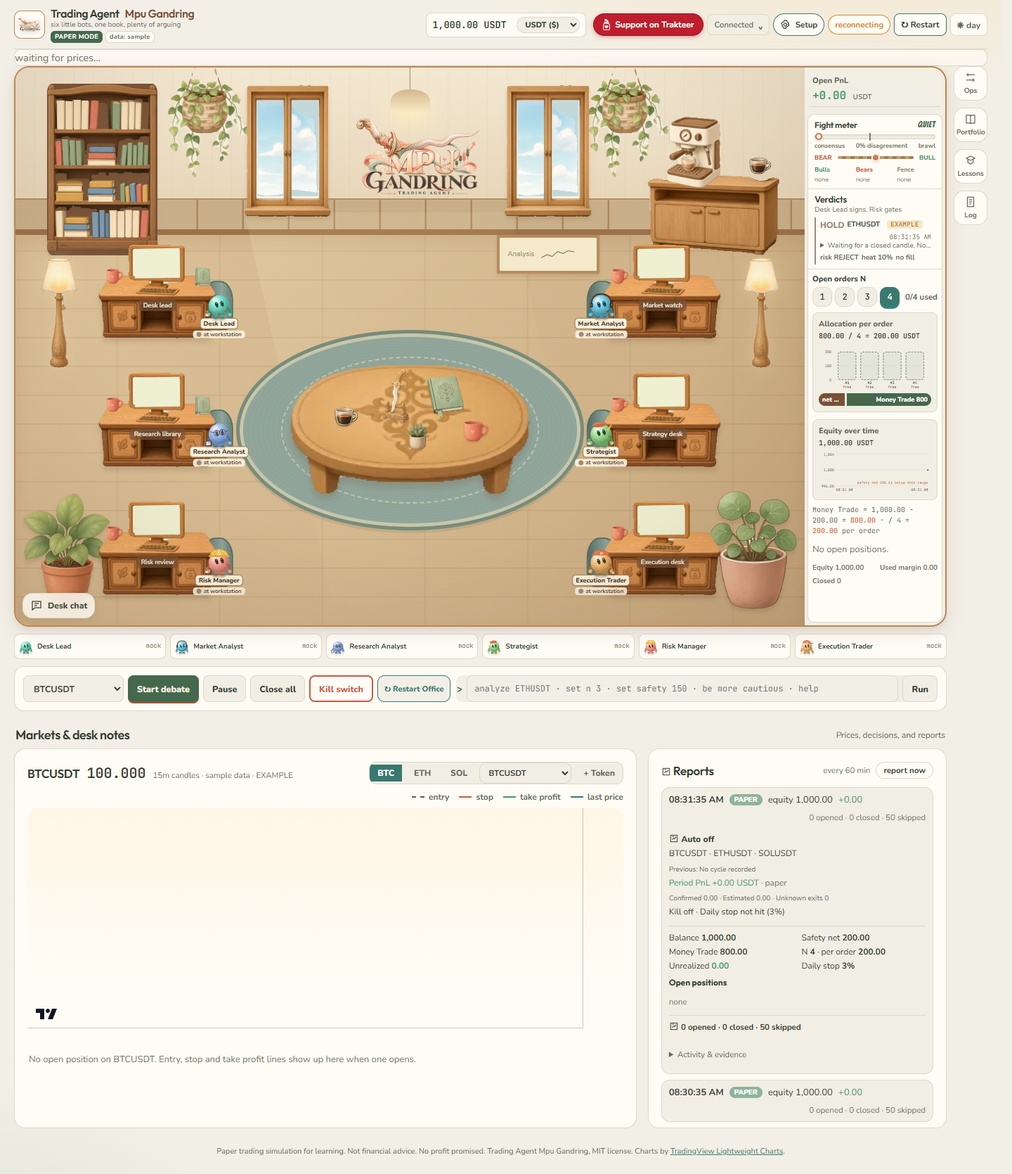
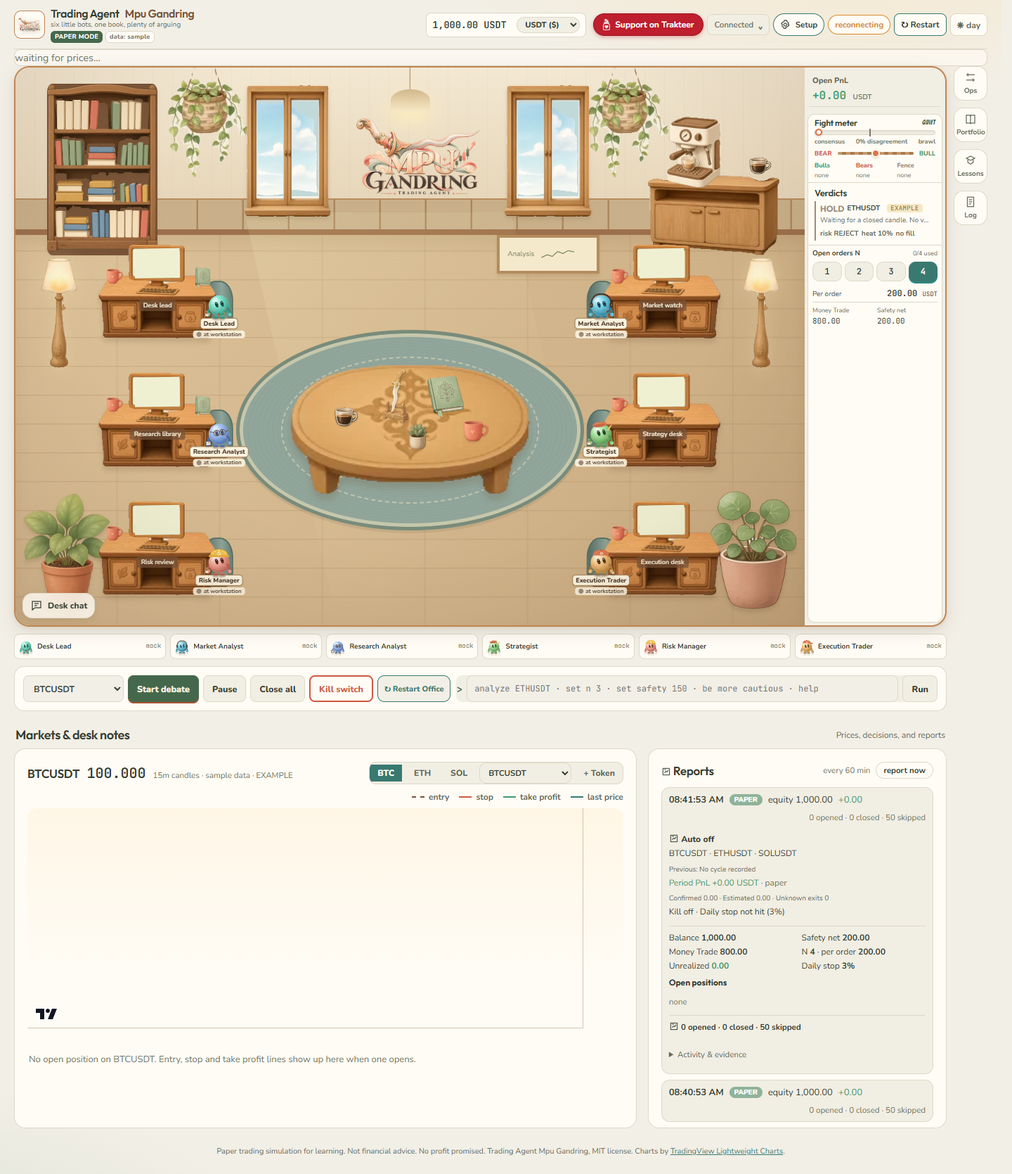
fix: compact map orders and remove indicator scrolling

Changed region(s): [[0.7812, 0.0935, 0.9375, 0.4985]]

diff --git a/web/src/styles/office-v2.css b/web/src/styles/office-v2.css
@@ -1,18 +1,25 @@
 .office-v2.office .office-world { background: #cfb18a; aspect-ratio: 1000 / 640; max-height: none; min-height: 390px; }
 .office-v2.office { container-type: inline-size; grid-template-columns: minmax(0, 1fr) 200px; grid-template-rows: auto minmax(0, 1fr); }
-.office-v2 .office-hud { align-self: stretch; align-content: start; min-height: 0; max-height: calc(max(390px, (100cqw - 200px) * .64) - 90px); overflow-y: auto; overscroll-behavior: contain; scrollbar-width: thin; scrollbar-color: var(--sage-deep) var(--panel); }
+.office-v2 .office-hud { align-self: stretch; align-content: start; min-height: 0; overflow: visible; }
 .office-v2 .office-orders { min-width: 0; padding: 9px; border-top: 1px solid var(--line); }
-.office-orders .n-picker { flex-wrap: wrap; margin: 0 0 8px; gap: 6px; }
-.office-orders .n-picker small { flex: 1 0 100%; color: var(--text); }
-.office-orders .n-picker button { width: 38px; height: 36px; }
-.office-orders .mini-chart { border-radius: 8px; padding: 8px; }
-.office-orders .mini-chart figcaption { flex-wrap: wrap; font-size: 11px; gap: 3px; }
-.office-orders .mini-chart figcaption b { font-size: 10px; }
-.office-orders .formula { font-size: 10px; line-height: 1.5; overflow-wrap: anywhere; }
-.office-orders .safety-strip { font-size: 9px; }
-.office-orders .safety-strip span { min-width: 0; padding-inline: 5px; }
-.office-orders .positions .pos { grid-template-columns: 1fr; gap: 4px; font-size: 11px; }
-.office-orders .foot { flex-wrap: wrap; gap: 5px 10px; font-size: 10px; }
+.office-orders .order-heading { display: flex; justify-content: space-between; gap: 6px; align-items: baseline; font-size: 10px; }
+.office-orders .order-heading span { color: var(--text-dim); white-space: nowrap; font-size: 9px; }
+.office-orders .n-picker { display: flex; flex-wrap: nowrap; margin: 5px 0; gap: 4px; }
+.office-orders .n-picker button { flex: 1; min-width: 0; width: auto; height: 28px; min-height: 28px; padding: 2px; font-size: 12px; }
+.office-orders .order-allocation { display: flex; justify-content: space-between; align-items: baseline; gap: 6px; padding-block: 4px; border-bottom: 1px solid var(--line); font-size: 10px; }
+.office-orders .order-allocation strong { font-family: var(--font-mono); font-size: 12px; }
+.office-orders .order-allocation small { font-size: 9px; font-weight: 400; }
+.office-orders .order-budget { display: grid; grid-template-columns: 1fr 1fr; gap: 6px; margin: 5px 0 0; }
+.office-orders .order-budget div { min-width: 0; }
+.office-orders .order-budget dt { color: var(--text-dim); font-size: 9px; }
+.office-orders .order-budget dd { margin: 2px 0 0; font-family: var(--font-mono); font-size: 11px; overflow-wrap: anywhere; }
+.office-orders .order-warning { margin: 4px 0 0; color: var(--short); font-size: 10px; }
+.office-v2 .office-hud .verdict-list { max-height: none; overflow: visible; }
+.office-v2 .office-hud .verdicts-compact .panel-head small { display: none; }
+.order-details { margin-top: 12px; }
+.order-details .pos { grid-template-columns: 1fr; gap: 4px; }
+.order-details .formula { overflow-wrap: anywhere; }
+.order-details .foot { flex-wrap: wrap; gap: 6px; }
 .dashboard .tool-flyout { overscroll-behavior: contain; }
 .studio-room { position: absolute; inset: 0; overflow: hidden; pointer-events: none; }
 .studio-wall { position: absolute; inset: 0 0 70%; background: repeating-linear-gradient(90deg, transparent 0 27px, #b7946c12 27px 28px), linear-gradient(#f3e8d2, #e4d2b4); border-bottom: 8px solid #9c704b; box-shadow: inset 0 -6px #c3986b; }
@@ -106,10 +113,21 @@
   .office-v2 .office-pnl { margin: 6px; padding: 5px; }
   .office-v2 .office-pnl strong { font-size: 16px; }
   .office-v2 .office-hud { margin: 4px; }
-  .office-v2 .office-orders { padding: 6px; }
+  .office-v2 .office-orders { padding: 4px 6px; }
   .office-v2 .office-orders .n-picker { gap: 4px; font-size: 10px; }
   .office-v2 .office-orders .n-picker button { width: 28px; height: 28px; min-height: 28px; padding: 2px; font-size: 12px; }
   .office-v2 .office-hud .verdicts-compact h2 { font-size: 13px; }
   .dashboard .desk-team .roster-item { flex: 1 1 0; height: 36px; min-height: 36px; padding: 4px 6px; grid-template-columns: 20px minmax(0, 1fr) auto; font-size: 10px; }
   .dashboard .desk-team .roster-item .bot { width: 20px; height: 24px; }
 }
+
+.office-v2 .verdicts-compact .v-top time { display: none; }
+.office-v2 .verdict-reason-trigger { display: block; width: 100%; min-width: 0; border: 0; padding: 2px 0; background: transparent; color: var(--text-dim); text-align: left; font: inherit; font-size: 10px; white-space: nowrap; overflow: hidden; text-overflow: ellipsis; cursor: pointer; }
+.office-verdict-popover { position: fixed; inset: 0; width: min(400px, calc(100vw - 32px)); height: fit-content; max-height: calc(100dvh - 40px); overflow: auto; margin: auto; padding: 18px; border: 1px solid var(--line); border-radius: 12px; background: var(--panel); color: var(--text); box-shadow: var(--shadow); font-size: 13px; }
+.office-verdict-popover::backdrop { background: #0004; }
+.office-verdict-popover p { line-height: 1.6; overflow-wrap: anywhere; }
+
+.office-v2 .office-hud .meter .panel-head { display: grid; grid-template-columns: auto minmax(0, 1fr); align-items: center; margin-bottom: 3px; }
+.office-v2 .office-hud .heat-label { font-size: 9px; line-height: 1.15; overflow-wrap: anywhere; }
+.office-v2 .office-hud .chip { font-size: 8px; line-height: 1.3; padding: 0 2px; }
+.office-v2 .office-hud .panel.meter { padding: 4px 9px; }

diff --git a/web/src/components/Panels.tsx b/web/src/components/Panels.tsx
@@ -1,4 +1,4 @@
-import { useCallback, useEffect, useRef, useState } from 'react';
+import { useCallback, useEffect, useId, useRef, useState } from 'react';
 import type { AgentId, DeskState, Verdict } from '../types';
 import { AGENT_ORDER } from '../types';
 import { PamorPattern } from './Keris';
@@ -533,18 +533,19 @@ export function Portfolio({ state, command }: { state: DeskState; command: (t: s
           )}
         </div>
       </div>
+      <OrderDetails state={state} command={command} />
     </section>
   );
 }
 
-export function OpenOrders({ state, command }: { state: DeskState; command: (text: string) => void }) {
+export function OpenOrders({ state }: { state: DeskState }) {
   const { t, lang } = useI18n();
   const p = state.paper;
   const [nBusy, setNBusy] = useState(false);
   const [nError, setNError] = useState<string | null>(null);
   return <section className="office-orders" aria-label={t('openOrdersN')}>
-      <div className="n-picker">
-        <small>{t('openOrdersN')}</small>
+      <div className="order-heading"><strong>{t('openOrdersN')}</strong><span>{p.positions.length}/{p.n} {t('usedSuffix')}</span></div>
+      <div className="n-picker" role="group" aria-label={t('openOrdersN')}>
         {[1, 2, 3, 4].map((n) => <button key={n} type="button" className={p.n === n ? 'on' : ''} disabled={nBusy} aria-pressed={p.n === n} onClick={() => void (async () => {
           if (nBusy || p.n === n) return;
           setNBusy(true); setNError(null);
@@ -553,9 +554,21 @@ export function OpenOrders({ state, command }: { state: DeskState; command: (tex
             if (!r?.ok) setNError(r?.error ?? (lang === 'id' ? 'Gagal menyimpan Max N.' : 'Could not save Max N.'));
           } finally { setNBusy(false); }
         })()}>{n}</button>)}
-        <span className="slots">{p.positions.length}/{p.n} {t('usedSuffix')}</span>
       </div>
       {nError && <p className="wallet-msg bad" role="status">{nError}</p>}
+      <div className="order-allocation"><span>{t('perOrder')}</span><strong>{fmt(p.perOrder)} <small>USDT</small></strong></div>
+      <dl className="order-budget">
+        <div><dt>{t('moneyTrade')}</dt><dd>{fmt(p.moneyTrade)}</dd></div>
+        <div><dt>{t('safetyNet')}</dt><dd>{fmt(p.safetyNet)}</dd></div>
+      </dl>
+      {!p.canOpen && <p className="order-warning">{t('atSafetyNet')}</p>}
+  </section>;
+}
+
+function OrderDetails({ state, command }: { state: DeskState; command: (text: string) => void }) {
+  const { t } = useI18n();
+  const p = state.paper;
+  return <div className="order-details">
       <div className="mini-charts"><AllocationBars state={state} /><EquityChart state={state} /></div>
       <p className="formula">{t('moneyTrade')} = {fmt(p.balance)} - {fmt(p.safetyNet)} = <b>{fmt(p.moneyTrade)}</b> · / {p.n} = <b>{fmt(p.perOrder)}</b> {t('perOrder').toLowerCase()}{!p.canOpen && <em> · {t('atSafetyNet')}</em>}</p>
       <div className="positions">
@@ -572,26 +585,33 @@ export function OpenOrders({ state, command }: { state: DeskState; command: (tex
         ))}
       </div>
       <div className="foot"><span>{t('equityLabel')} {fmt(p.equity)}</span><span>{t('usedMarginLabel')} {fmt(p.usedMargin)}</span><span>{t('closedLabel')} {p.closed.length}</span></div>
-  </section>;
+  </div>;
 }
 
 const ACTION_LABEL: Record<Verdict['action'], string> = { OPEN_LONG: 'OPEN LONG', OPEN_SHORT: 'OPEN SHORT', CLOSE: 'CLOSE', HOLD: 'HOLD' };
 export function Verdicts({ state, compact = false }: { state: DeskState; compact?: boolean }) {
   const { t } = useI18n();
+  const detailId = useId();
   return (
     <section className={`panel verdicts${compact ? ' verdicts-compact' : ''}`}>
       <div className="panel-head"><h2>{t('verdictsTitle')}</h2><small className="muted">{t('verdictsSub')}</small></div>
       {state.verdicts.length === 0 && <p className="muted">{t('noVerdictYet')}</p>}
       <div className="verdict-list">
         {state.verdicts.slice(0, compact ? 1 : 6).map((v) => (
-          <article key={v.id} className={`verdict a-${v.action}`}>
+          <article key={v.id} className={`verdict a-${v.action}`} title={time(v.at)}>
             <div className="v-top">
               <span className="v-action">{ACTION_LABEL[v.action]}</span>
               <b>{v.symbol}</b>
               {v.example && <em className="tag-example">EXAMPLE</em>}
               <time>{time(v.at)}</time>
             </div>
-            {compact ? <details><summary>{v.reason.slice(0, 82)}{v.reason.length > 82 ? '…' : ''}</summary><p>{v.reason}</p></details> : <p>{v.reason}</p>}
+            {compact ? <>
+              <button className="verdict-reason-trigger" type="button" popoverTarget={detailId}>{v.reason}</button>
+              <div id={detailId} popover="auto" className="office-verdict-popover" role="dialog" aria-label={t('verdictsTitle')}>
+                <strong>{ACTION_LABEL[v.action]} · {v.symbol}</strong><p>{v.reason}</p>
+                <button type="button" popoverTarget={detailId} popoverTargetAction="hide">{t('closeBtn')}</button>
+              </div>
+            </> : <p>{v.reason}</p>}
             <div className="v-meta">
               <span>risk {v.riskDecision}</span>
               <span>heat {Math.round(v.disagreement * 100)}%</span>

diff --git a/scripts/verify-office-ui.ts b/scripts/verify-office-ui.ts
@@ -70,6 +70,8 @@ try {
   assert.equal(await page.getByRole('heading', { name: 'Around the office', exact: true }).count(), 0);
   assert.equal(await page.locator('.office-hud .office-orders .n-picker').count(), 1);
   assert.equal(await page.locator('.portfolio .n-picker').count(), 0);
+  assert.equal(await page.locator('.office-orders .mini-chart, .office-orders .formula, .office-orders .positions').count(), 0);
+  assert.equal(await page.locator('.portfolio .order-details .mini-chart').count(), 2);
   assert.equal(await page.locator('.studio-sign img[src="/mpu-gandring-logo.webp"]').count(), 1);
   assert.equal(await page.locator('.studio-meeting-label').count(), 0);
   assert.equal(await page.locator('.coffee-machine, .meeting-book, .meeting-plant').count(), 3);
@@ -83,6 +85,12 @@ try {
       const pnl = document.querySelector('.office-pnl')!.getBoundingClientRect();
       const overlaps = (a: DOMRect, b: DOMRect) => a.left < b.right - 1 && a.right > b.left + 1 && a.top < b.bottom - 1 && a.bottom > b.top + 1;
       const errors: string[] = [];
+      for (const panel of document.querySelectorAll<HTMLElement>('.office-hud, .office-hud .verdict-list, .office-orders')) {
+        if (panel.scrollHeight > panel.clientHeight + 1) errors.push(`Map indicator content overflows vertically: ${panel.className} ${panel.scrollHeight}/${panel.clientHeight}`);
+        if (panel.scrollWidth > panel.clientWidth + 1) errors.push('Map indicator content overflows horizontally');
+        if (['auto', 'scroll'].includes(getComputedStyle(panel).overflowY)) errors.push('Map indicators still scroll');
+      }
+      if (innerWidth > 768 && innerHeight >= 600 && hud.bottom > world.bottom + 1) errors.push('Map indicators extend below the room');
       const table = document.querySelector('.studio-meeting')!.getBoundingClientRect();
       if (Math.abs(table.x + table.width / 2 - (world.x + world.width / 2)) > 1 || Math.abs(table.y + table.height / 2 - (world.y + world.height * .65)) > 1) errors.push('Table is not centered on the floor');
       const decor = [...document.querySelectorAll('.studio-table-inlay, .meeting-cup, .meeting-book, .meeting-plant')];
@@ -134,6 +142,13 @@ try {
     await page.screenshot({ path: path.join(output, `office-fit-${viewport.width}.png`) });
   }
   await page.setViewportSize({ width: 1440, height: 1100 });
+  await page.locator('.verdict-reason-trigger').click();
+  assert(await page.locator('.office-verdict-popover:popover-open').isVisible());
+  await assertOfficeSpace();
+  await page.locator('.office-verdict-popover button').click();
+  const nRequest = page.waitForRequest((request) => new URL(request.url()).pathname === '/api/ops/auto' && request.method() === 'POST');
+  await page.locator('.office-orders .n-picker button').filter({ hasText: /^2$/ }).click();
+  assert.deepEqual((await nRequest).postDataJSON(), { n: 2 });
   await page.locator('#tool-ops').click();
   await page.locator('.tool-flyout').hover();
   await page.waitForFunction(() => document.documentElement.style.overflow === 'hidden');
@@ -187,7 +202,8 @@ try {
   assert(!/LIVE|Exchange/.test(await page.locator('.office-pnl').innerText()), 'Map PnL omits mode and exchange source labels.');
   const hot = structuredClone(snapshot);
   hot.paper.unrealized = -7.5;
-  hot.debate = { id: 'test-hot', symbol: 'ETHUSDT', phase: 'round 1', round: 1, disagreement: 0.9, weighted: 0, camps: { bull: ['market'], bear: ['research'], neutral: [] } };
+  hot.paper.positions = Array.from({ length: 4 }, (_, i) => ({ id: `position-${i}`, symbol: ['BTCUSDT', 'ETHUSDT', 'SOLUSDT', 'XRPUSDT'][i], side: 'LONG' as const, qty: 1, entry: 100, stop: 95, tp: 110, margin: 200, leverage: 1, openedAt: Date.now(), mark: 101, unrealizedPnl: 1 }));
+  hot.debate = { id: 'test-hot', symbol: 'ETHUSDT', phase: 'round 1', round: 1, disagreement: 0.9, weighted: 0, camps: { bull: ['market', 'strategist'], bear: ['research', 'risk'], neutral: ['lead', 'execution'] } };
   hot.agents.market.stance = 'LONG'; hot.agents.research.stance = 'SHORT';
   socket!.send(JSON.stringify({ type: 'state', payload: hot }));
   socket!.send(JSON.stringify({ type: 'speech', payload: { agent: 'risk', at: Date.now(), text: 'Long debate text. '.repeat(30), done: true, example: true } }));
@@ -204,6 +220,12 @@ try {
   await page.locator('.office').screenshot({ path: path.join(output, 'office-hot-debate.png') });
   await page.emulateMedia({ reducedMotion: 'reduce' });
   await page.waitForSelector('.brawl-zone', { state: 'detached' });
+  await page.setViewportSize({ width: 1024, height: 600 });
+  await page.screenshot({ path: path.join(output, 'office-busy-1024.png') });
+  await assertOfficeSpace();
+  await page.locator('#tool-book').click();
+  assert.equal(await page.locator('.portfolio .order-details .pos').count(), 4);
+  await page.getByRole('button', { name: 'Close tool panel' }).click();
   for (const viewport of [{ width: 375, height: 812 }, { width: 812, height: 375 }]) {
     await page.setViewportSize(viewport);
     await page.emulateMedia({ reducedMotion: 'reduce' });

diff --git a/tests/i18n.test.ts b/tests/i18n.test.ts
@@ -43,22 +43,22 @@ describe('Dual language i18n parity and updater adapter', () => {
   });
 
   it('compares dotted version strings and checks update status at current release version', async () => {
-    expect(APP_VERSION).toBe('0.0.0.3.12');
+    expect(APP_VERSION).toBe('0.0.0.3.13');
     expect(compareVersions('0.0.0.2.6', '0.0.0.2.6')).toBe(0);
     expect(compareVersions('0.0.0.2.6', '0.0.0.2.5')).toBe(1);
     expect(compareVersions('0.0.0.3.3', '0.0.0.2.6')).toBe(1);
     expect(compareVersions('0.0.0.1.9', '0.0.0.2.6')).toBe(-1);
 
     const fakeNewerFetch = async () =>
-      new Response(JSON.stringify({ appVersion: '0.0.0.3.13', changelog: ['New feature'] }), { status: 200 });
+      new Response(JSON.stringify({ appVersion: '0.0.0.3.14', changelog: ['New feature'] }), { status: 200 });
     const st = await checkUpdate(fakeNewerFetch as unknown as typeof fetch);
     expect(st.ok).toBe(true);
-    expect(st.currentVersion).toBe('0.0.0.3.12');
-    expect(st.latestVersion).toBe('0.0.0.3.13');
+    expect(st.currentVersion).toBe('0.0.0.3.13');
+    expect(st.latestVersion).toBe('0.0.0.3.14');
     expect(st.updateAvailable).toBe(true);
 
     const applied = applyUpdate(process.cwd(), () => ({ status: 0, stdout: 'Already up to date.\\n', stderr: '' }));
     expect(applied.ok).toBe(true);
-    expect(applied.currentVersion).toBe('0.0.0.3.12');
+    expect(applied.currentVersion).toBe('0.0.0.3.13');
   });
 });

diff --git a/web/src/App.tsx b/web/src/App.tsx
@@ -136,7 +136,7 @@ function AppInner() {
           <Office sceneEvents={sceneEvents} state={state} speech={speech} fights={fights} reactions={reactions} disagreement={dis} selected={selected} spark={spark} onSelect={setSelected}>
             <FightMeter state={state} meter={meter} fighting={fights.length > 0} />
             <Verdicts state={state} compact />
-            <OpenOrders state={state} command={(cmd) => void command(cmd)} />
+            <OpenOrders state={state} />
           </Office>
           <section className="desk-team" id="desk-team" aria-label={id ? 'Tim agen' : 'Agent team'}><Roster state={state} onSelect={setSelected} /></section>
           <CommandBar state={state} command={(cmd) => command(cmd)} />

diff --git a/server/updater.ts b/server/updater.ts
@@ -2,7 +2,7 @@ import { spawnSync } from 'node:child_process';
 import { readFileSync } from 'node:fs';
 import path from 'node:path';
 
-export const APP_VERSION = '0.0.0.3.12';
+export const APP_VERSION = '0.0.0.3.13';
 export const REPO_RAW_PKG_URL = 'https://raw.githubusercontent.com/aabrur/trading-agent-mpu-gandring/main/package.json';
 export const REPO_URL = 'https://github.com/aabrur/trading-agent-mpu-gandring';
 

diff --git a/README.md b/README.md
@@ -14,17 +14,17 @@ You watch all of it live in a little virtual office in your browser, and you can
 
 Screenshots use isolated PAPER/mock fixtures and simulated data. They demonstrate the interface, not exchange execution or trading results.
 
-## Illustrated office (v0.0.0.3.12)
+## Illustrated office (v0.0.0.3.13)
 
 The office uses supplied wood furniture, a shared carved discussion table, a stocked library, sky windows, hanging plants, lamps and a coffee corner. Six animated characters retain their own workstation, role accessories, activity, debate and chat controls. Day and night themes extend across the room, map panels, agent roster, markets and reports.
 
-The office opens directly below the ticker, without a workspace hero or account-summary section. The six-agent roster stays in one compact, equal-height row, with horizontal scrolling on narrow screens. Open-order controls, allocation, equity history and positions sit in the map rail alongside Open PnL, the fight meter and verdicts. The rail scrolls independently on desktop. Portfolio retains balance, safety-net and venue-account settings.
+The office opens directly below the ticker, without a workspace hero or account-summary section. The six-agent roster stays in one compact, equal-height row, with horizontal scrolling on narrow screens. Compact open-order controls sit alongside Open PnL, the fight meter and verdicts without a scrolling rail. Portfolio contains the full allocation and equity charts, position controls, balance, safety-net and venue-account settings.
 
-On desktop viewports at least 600px tall, the complete office and all six agent buttons fit within the viewport while preserving workspace width. The compact 200px HUD scrolls within the office. The header, scene characters and agent row stay small so the room retains most of the screen; the office heading has been removed. The discussion table is centered on the usable floor, with six workstations aligned in two balanced columns. Four bookshelf levels use the supplied assembled book groups, and tabletop cups, book, plant and keris each have separate space. The wall displays only the project logo. An espresso machine sits on the coffee counter, and the discussion table carries coffee, a book, a plant and the supplied ornate keris (`026_curved-blade_ornate-dagger`) mounted upright in its matching wooden display stand. Tool panels freeze background-page scrolling while the pointer is inside, and release it on pointer exit or close. Map PnL shows the label and USDT value without mode/source text; provenance remains accessible in its description. Existing trading commands and guards keep their behavior.
+On desktop viewports at least 600px tall, the complete office and all six agent buttons fit within the viewport while preserving workspace width. The compact 200px HUD fits its indicators without internal scrolling. Open orders shows N, used slots, per-order allocation, Money Trade and the safety net; full charts, formulas and position controls are available in Portfolio. Full verdict reasons open in a separate popover. The header, scene characters and agent row stay small so the room retains most of the screen; the office heading has been removed. The discussion table is centered on the usable floor, with six workstations aligned in two balanced columns. Four bookshelf levels use the supplied assembled book groups, and tabletop cups, book, plant and keris each have separate space. The wall displays only the project logo. An espresso machine sits on the coffee counter, and the discussion table carries coffee, a book, a plant and the supplied ornate keris (`026_curved-blade_ornate-dagger`) mounted upright in its matching wooden display stand. Tool panels freeze background-page scrolling while the pointer is inside, and release it on pointer exit or close. Map PnL shows the label and USDT value without mode/source text; provenance remains accessible in its description. Existing trading commands and guards keep their behavior.
 
 Runtime artwork lives in `web/public/office-assets/`: 28 optimized WebP images, about 355 KiB total, with original filenames and archive provenance in `manifest.json`. The supplied `web/public/mpu-gandring-assets/` authoring library stays local and is ignored by Git. Production builds copy only runtime artwork and the two branding images, so clones do not need the original library. Replaced inline room artwork and furniture CSS have been removed.
 
-Validation: typecheck, production build and offline UI checks pass, including desktop, 375px phone, 812px landscape, night mode, loaded artwork, wallet sessions, discussion, compact roster, panel scroll containment and reduced motion. The full suite remains at its pre-existing baseline of **358 passing / 15 failing tests** in trading-default and risk-related tests. See [the verification record](docs/qa/2026-10-21-office-redesign.md). This release does not resolve those failures.
+Validation: typecheck, production build and offline UI checks pass, including desktop, 375px phone, 812px landscape, night mode, loaded artwork, wallet sessions, discussion, compact roster, panel scroll containment and reduced motion. The last full-suite run reported **369 passing / 15 failing tests** in trading-default and risk-related tests. See [the verification record](docs/qa/2026-10-21-office-redesign.md). This release does not resolve those failures.
 
 > **Risk warning. Paper trading by default. Not financial advice. No profit promised.** This is an educational project about multi-agent decision making. If you choose TESTNET or LIVE in setup, the agents trade **on their own** in full auto with no approval step: they open, close, size and set stops without asking you. In LIVE that is real money and you can lose it, quickly. Automatic guards including the no-withdraw key check, stop on every order, daily loss stop, safety net, max N and kill switch limit damage; they do not prevent losses. Read [docs/live-trading.md](docs/live-trading.md) first.
 
@@ -80,14 +80,14 @@ No model API keys needed: six Grok Bot agents are the employees and the brains, 
 - **A cozy office with brutal cartoon smoke-cloud fights and spectator reactions.** Wood floors, a woven rug, sky windows, a coffee corner and six round little bots with mitten hands. Each role has its own color and prop: tie, keris pin and journal papers for the Lead, headset for Market, glasses and newspaper for Research, beret and pencil for the Strategist, hard hat for Risk and cap and stopwatch for Execution. When disagreement crosses the threshold, agents dive into a cartoon dust/smoke cloud with flying fists, spinning stars, lightning bolts and impact bursts (`GEBUK!`, `POW!`, `WHAM!`, `BONK!`), while bystander bots react with worried expressions and speech without blocking execution.
 - **Interactive pop-up tutorial on every start.** A 9-step guided onboarding tour launches automatically on startup (and via **Setup > Tutorial** in the top bar), highlighting each section of the desk with a spotlight and directional arrow.
 - **Dual language mode: EN and ID.** Defaults to English (`EN`) and switches instantly to Bahasa Indonesia (`ID`) from the top bar (`EN ▾ ID`), backed by a strictly synchronized 1:1 translation dictionary verified by automated tests.
-- **In-app Version & Lit-Up Update Notification (`v0.0.0.3.12`).** The lit-up version notification badge (`v0.0.0.3.12 · Update ↑`) in the top bar checks GitHub for new releases via `GET /api/update/status` and lets you pull and build the latest version in one click via `POST /api/update/apply`.
+- **In-app Version & Lit-Up Update Notification (`v0.0.0.3.13`).** The lit-up version notification badge (`v0.0.0.3.13 · Update ↑`) in the top bar checks GitHub for new releases via `GET /api/update/status` and lets you pull and build the latest version in one click via `POST /api/update/apply`.
 - **Charts you can read.** A candlestick chart for the selected symbol with a price scale, time labels, the last price and dashed entry, stop and take profit lines for open paper positions. The paper book has an equity curve and allocation bars for Money Trade / N, and every desk monitor shows a sparkline.
 - **Day and night.** A toggle in the top bar. All colors and fonts live in `web/src/styles/tokens.css`.
 - **Live office feed.** Status, speech bubbles and fights stream over WebSocket, next to the fight meter, ticker strip, verdict cards and a desk log.
 - **Talk to the agents.** Click an agent to chat or give commands like `analyze ETHUSDT`, `be more cautious` or `close all`.
 - **Optional Grok Bot bridge.** Send verdicts and commands to a Grok Bot webhook routine from the server. Off by default.
 
-## Compact office controls (v0.0.0.3.12)
+## Compact office controls (v0.0.0.3.13)
 
 - Open **Ops**, **Portfolio**, **Lessons**, or **Log** from the bubble menu at the right. Panels stay closed until selected. Close with the same bubble, the close button, Escape, or a click outside. On phones the menu sits at the bottom-right.
 - **Reports** sits beside the price chart on desktop and below it on narrow screens. Open activity and evidence only when needed.
@@ -139,7 +139,7 @@ Refused everywhere: main wallet private keys, seed phrases, keys that can withdr
 | Interactive onboarding tour | N/A | Launches on every start, or open **Setup > Tutorial** in the top bar |
 | Optional Jev decision sidecar | Setup > Models, `JEV_ENABLED=true` | Shadow does not block. LIVE ASSIST needs Setup authorization. Never places orders |
 | Switch UI language (`EN` default / `ID`) | N/A | **EN ▾ ID** toggle in top bar |
-| Check version (`v0.0.0.3.12`) & one-click update | `git pull --ff-only && npm run build` | Lit-up **v0.0.0.3.12 · Update ↑** button in top bar |
+| Check version (`v0.0.0.3.13`) & one-click update | `git pull --ff-only && npm run build` | Lit-up **v0.0.0.3.13 · Update ↑** button in top bar |
 | Doctor / permission check | `npm run doctor`, `npm run setup -- check-key --network testnet` | Setup > Exchange & Safety **Run doctor** |
 | Switch mode to TESTNET or LIVE | `npm run setup -- --yes --trading-mode testnet` / `... live --confirm-live "I understand LIVE trades real money"` | Setup > Exchange & Safety |
 | What is configured with secrets masked | `npm run setup -- status` | Setup header and status lines |
@@ -415,7 +415,7 @@ server/            Express + WebSocket backend
   exchange/        adapter interface; Bybit implemented; Binance, OKX, Hyperliquid, Aster, dYdX, Paradex, Orderly experimental
   live/            automatic key guard, optional testnet round trip, live executor
   wallet.ts        Connect wallet: DEX agent key + one signed approval + live venue balance + official deposit links
-  updater.ts       in-app version check (v0.0.0.3.12) and one-click git fast-forward updater
+  updater.ts       in-app version check (v0.0.0.3.13) and one-click git fast-forward updater
   auto.ts          full auto scheduler
   reports.ts       periodic reports to files, UI, bridge and Telegram
   learnings.ts     self-improving lessons store and the guard-loosening block
@@ -453,7 +453,7 @@ Proyek ini simulasi trading kertas secara default. Enam agen AI berdebat, kadang
    mpu
    ```
 3. Ketik `mpu` kapan saja di terminal untuk langsung menjalankan desk dan membuka Web UI secara otomatis, atau `mpu setup` untuk langsung membuka menu pengaturan bernavigasi sidebar kiri. Di halaman Setup, Anda bisa mengatur saldo paper, safety net, memilih model untuk setiap agent dari 10 provider yang masing-masing menyediakan 20 model AI sehingga 1 API key bisa dipakai untuk banyak model, atau langsung menghubungkan agent CLI yang sudah terpasang di laptop Anda seperti Codex, Claude Code, Pi, Kimi Code, Kilo, Cline dan Grok Build maupun supervisor eksternal seperti Antigravity dan Grok Bot.
-4. Tanpa API key pun jalan, karena ada provider `mock`. Di navbar bagian atas tersedia dropdown **Connect Wallet** khusus wallet EVM DEX, tombol **Setup**, menu **Setup > Tutorial** untuk panduan pop-up interaktif 9 langkah, tombol **v0.0.0.3.12** untuk cek & klik update versi secara langsung, serta pilihan **EN ▾ ID** di dalam menu **Setup** untuk mengganti bahasa. Tombol **Restart** berada di navbar untuk memuat ulang konfigurasi kantor. Tersedia pula 4 preset risiko trading bawaan (Default, Balance, Profit, High Risk High Reward) yang dapat dipilih langsung dari Setup atau dropdown ringkas di atas tombol Cycle now pada Desk Ops Auto Trade.
+4. Tanpa API key pun jalan, karena ada provider `mock`. Di navbar bagian atas tersedia dropdown **Connect Wallet** khusus wallet EVM DEX, tombol **Setup**, menu **Setup > Tutorial** untuk panduan pop-up interaktif 9 langkah, tombol **v0.0.0.3.13** untuk cek & klik update versi secara langsung, serta pilihan **EN ▾ ID** di dalam menu **Setup** untuk mengganti bahasa. Tombol **Restart** berada di navbar untuk memuat ulang konfigurasi kantor. Tersedia pula 4 preset risiko trading bawaan (Default, Balance, Profit, High Risk High Reward) yang dapat dipilih langsung dari Setup atau dropdown ringkas di atas tombol Cycle now pada Desk Ops Auto Trade.
 5. Aturan uang: Money Trade = total saldo dikurangi safety net, lalu dibagi N order dari 1 sampai 4. Contoh saldo 100, safety net 20, N = 4, berarti 20 USDT per order. Safety net tidak pernah disentuh dan setiap order wajib pakai stop loss. Anda juga bisa memilih token perp apa saja lewat dropdown Watchlist, Popular Perps, atau `+ Custom token...` di Price Chart, Command Bar, dan Desk Ops.
 6. Mau trading di exchange? Pakai akun dan key **milik Anda sendiri**. Urutannya PAPER, lalu TESTNET, LIVE paling akhir. Jalankan `mpu setup` atau `npm run setup` atau klik tombol **Setup** di kanan atas office: pilih venue dan mode, ikuti link langsung satu per satu untuk daftar, dana tes, halaman pembuatan key dan izin yang dicentang, lalu ketik key di input tersembunyi. Key masuk ke `.env` dengan chmod 600, tidak pernah ke chat. Izin: trade saja, withdraw dan transfer MATI. Private key dompet utama dan seed phrase selalu ditolak. Untuk DEX (`Hyperliquid`, `Aster`, `dYdX v4`, `Paradex`, `Orderly`) bisa melalui tombol **Connect Wallet** yang juga menampilkan saldo USDT secara live serta tombol **Halaman deposit resmi** untuk setiap DEX/CEX. Setelah itu jalankan `npm run doctor`. Panduan per venue: [docs/setup/](docs/setup/README.md). Untuk LIVE harus mengetik kalimat konfirmasi.
 7. Pakai agen AI sendiri? Grok Bot: [grokbot/INSTALL.md](grokbot/INSTALL.md), jalan di komputer Grok Bot, bukan laptop kamu. Muse Code: [docs/muse-code.md](docs/muse-code.md) dan [MUSE.md](MUSE.md). Claude Code, Codex, Antigravity, Cursor atau Copilot: [AGENTS.md](AGENTS.md) dan [docs/local-agents.md](docs/local-agents.md).

diff --git a/docs/qa/2026-10-21-office-redesign.md b/docs/qa/2026-10-21-office-redesign.md
@@ -73,3 +73,10 @@ Verification: 14 focused scene/updater tests, typecheck, build and isolated brow
 Moved the existing EN/ID language toggle into the Setup menu alongside Setup and Tutorial. Added a compact Restart button in the former top-bar language position. It uses the existing POST /api/setup/restart endpoint, disables while pending and displays the returned status or an error. Feedback clears after six seconds. Existing restart commands remain available.
 
 Verification: four updater/i18n tests, typecheck and production build passed. The isolated browser verifier passed its complete layout checks plus EN/ID switching and saved-language assertions inside the menu, header toggle removal, restart POST dispatch, successful restart feedback and failed-response feedback. All restart requests were mocked; no running trading process was restarted. README screenshots refreshed. The known full-suite result remains 369 passed / 15 failed and was not rerun for this UI change.
+
+
+## Non-scrolling map indicators: v0.0.0.3.13
+
+Compacted Open orders N to its four N buttons, used-slot count, per-order allocation, Money Trade and safety net. Moved the existing allocation/equity charts, formula and position list with close controls into Portfolio. Removed HUD and verdict-list scrolling; compressed meter spacing and camp chips. Full verdict reasons open in a native top-layer popover so reading them does not expand the rail. Room width, height and agent sizes are preserved.
+
+Verification: four updater/i18n tests, typecheck, build and isolated browser checks passed. Browser assertions verify no vertical or horizontal overflow and no scrollable HUD, order summary or verdict list; rail content stays within the room at desktop sizes. The smallest desktop fixture (1024x600) includes six agents split across all debate camps and four open positions. It confirms all four position rows are retained in Portfolio, N=2 still posts the same payload, and the verdict popover opens without expanding the rail. Existing mobile, landscape, day/night, restart and language checks passed. README screenshots refreshed. The full-suite result remains 369 passed / 15 failed from the previous full run and was not rerun for this UI-only change.
